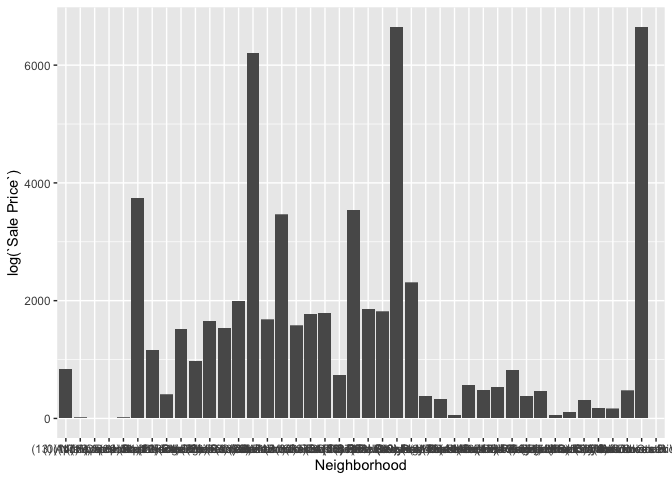
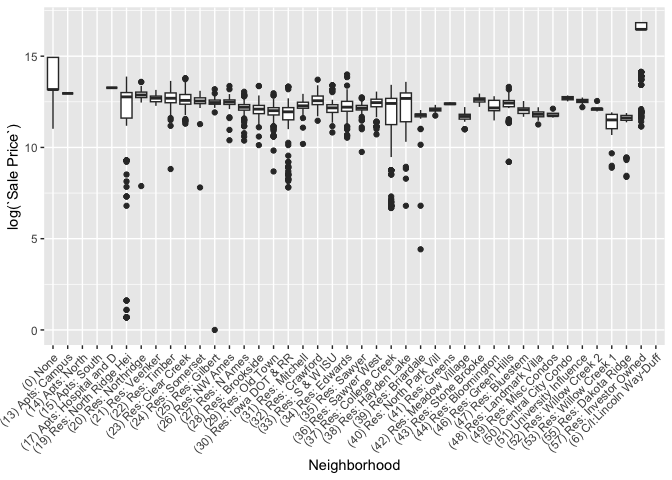
Whalen final commits

diff --git a/README.md b/README.md
@@ -301,13 +301,23 @@ df1 <- ames['Neighborhood']
 df1['Sale Price'] <- ames['Sale Price'] 
 df1 <- drop_na(df1)
 
-ggplot(df1, 
-       aes(x = Neighborhood, y = log(`Sale Price`))
-       ) +
-  geom_col()
+ggplot(df1, aes(x = Neighborhood, y = log(`Sale Price`))) +
+  geom_boxplot() +
+  theme(axis.text.x = element_text(angle = 45, hjust = 1))
 ```
 
-    ## Warning: Removed 2206 rows containing missing values or values outside the scale range
-    ## (`geom_col()`).
+    ## Warning: Removed 2206 rows containing non-finite outside the scale range
+    ## (`stat_boxplot()`).
 
 ![](README_files/figure-gfm/unnamed-chunk-6-1.png)<!-- -->
+
+I created a boxplot comparing the sale price of houses with what
+neighborhood they are located in. The average sale price of a house
+seems to be pretty consistently located around \$1.25 million. The one
+outlier of the Neighborhoods is Lincoln Way-Duff, with the average
+selling price being much higher, around \$1.75 million. The range of
+prices is from just under \$500,000 in the Briardale residential
+neighborhood to around 1.75 mil in Lincoln way-Duff. This does reflect
+some of the outliers described in 3 with some variables having a value
+of 0 or being fairly low in comparison to the average, specifically in
+the North Ridge Hei Neighborhood.
